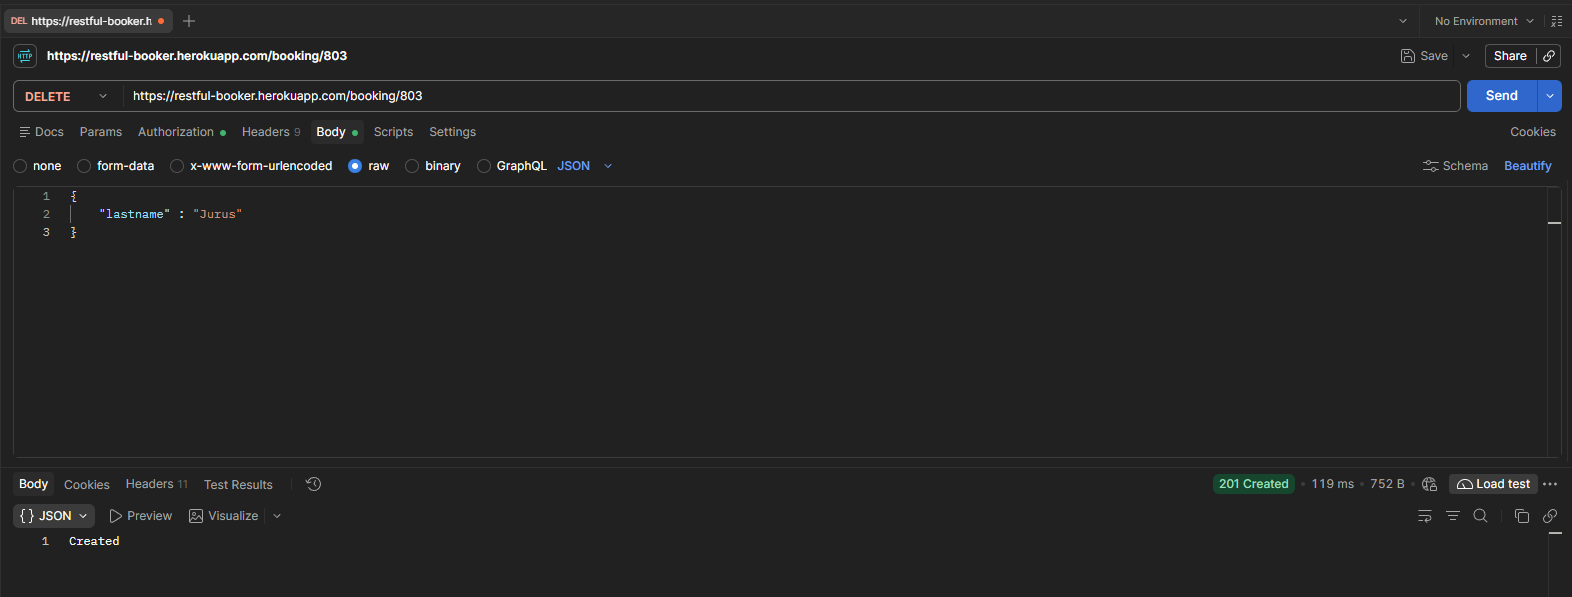
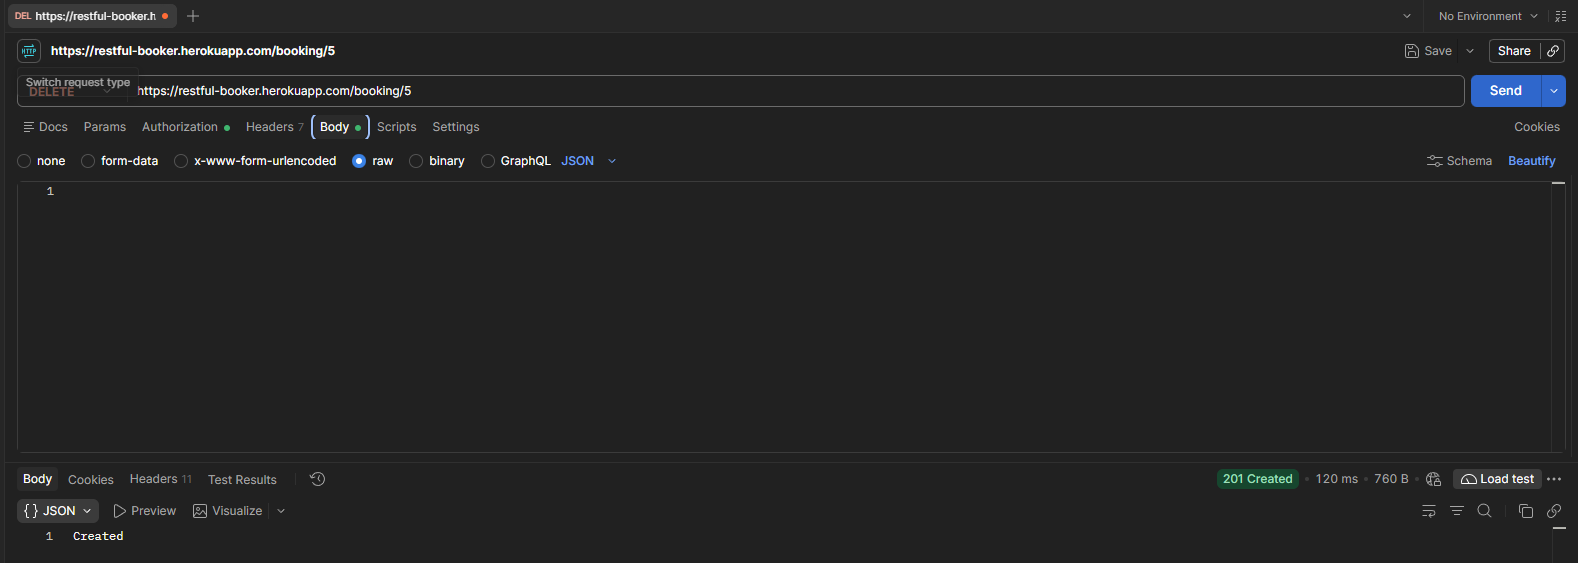
Remove outdated test case images and documentation for Restful-Booker API

diff --git a/test-cases-restful-booker.md b/test-cases-restful-booker.md
@@ -32,7 +32,7 @@
 - **Actual:** status 200 OK, response contains `token`
 - **Result:** PASS
 
-![TC-01](images/tc-12.png)
+![TC-01](images/tc-08.png)
 
 ---
 
@@ -56,7 +56,7 @@
 - **Actual:** status 200 OK, `bookingid` is 803, `booking` contains all sent fields
 - **Result:** PASS (note: the API returns 200, not 201 Created)
 
-![TC-02](images/tc-18.png)
+![TC-02](images/tc-11.png)
 
 ---
 
@@ -67,7 +67,7 @@
 - **Actual:** status 200 OK, `firstname` is Patryk, `lastname` is Nowak, `totalprice` is 1111, dates are 2024-01-01 to 2024-01-10
 - **Result:** PASS
 
-![TC-03](images/tc-08.png)
+![TC-03](images/tc-12.png)
 
 ---
 
@@ -78,7 +78,7 @@
 - **Actual:** status 200 OK, list of objects with `bookingid` (12, 14, 15, 17, 23, ...)
 - **Result:** PASS (only ids are returned, so the filter itself was not verified against the booking data)
 
-![TC-04](images/tc-14.png)
+![TC-04](images/tc-09.png)
 
 ---
 
@@ -102,7 +102,7 @@
 - **Actual:** status 403 Forbidden, body `Forbidden`
 - **Result:** PASS
 
-![TC-05](images/tc-17.png)
+![TC-05](images/tc-13.png)
 
 ---
 
@@ -114,7 +114,7 @@
 - **Actual:** status 200 OK, `lastname` is Kozminski, `totalprice` is 2000, dates are 2024-02-03 to 2024-02-11
 - **Result:** PASS
 
-![TC-06](images/tc-13.png)
+![TC-06](images/tc-15.png)
 
 ---
 
@@ -125,7 +125,7 @@
 - **Actual:** status 201 Created, body `Created`
 - **Result:** PASS (note: DELETE returns 201 instead of the usual 200 or 204)
 
-![TC-07](images/tc-10.png)
+![TC-07](images/tc-18.png)
 
 ---
 
